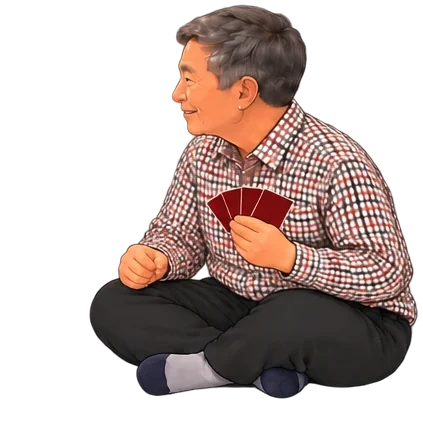
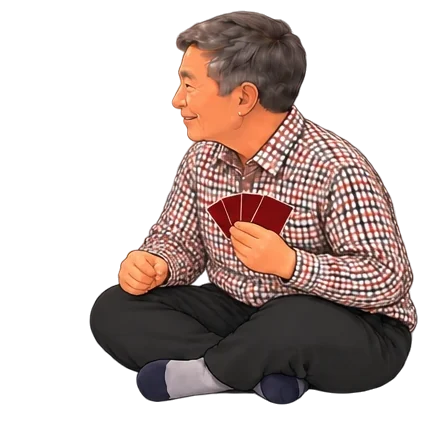
남이 점수를 가져가거나 대박일 때 아쉬워하는 8프레임 모션 추가
- 캐릭터별 아쉬움 모션 시트(sad_{seatId}) 추가, 슬라이스 스크립트에서 다리 폭 기준 크기 보정·정렬
- CharacterSprite 'sad' 포즈: 멍 → 손짓 → 볼 감싸고 한숨 → 체념 (한 번 재생)
- 남이 점수를 올리거나 쪽·따닥·싹쓸이 등 대박이 나면 다른 분들이 순차적으로 아쉬워함,
  피를 뺏긴 분은 항상, 판이 끝나면 진 분들도 아쉬워함

Claude-Session: https://claude.ai/code/session_01Gnj2nYNRJuK9oaCQFWawaU

diff --git a/src/components/CharacterSprite.tsx b/src/components/CharacterSprite.tsx
@@ -2,7 +2,7 @@ import { useEffect, useState } from 'react';
 import FRAMES from '../config/characterFrames.json';
 
 /** 캐릭터 모션 상태 */
-export type CharacterPose = 'idle' | 'play' | 'cheer' | 'observe';
+export type CharacterPose = 'idle' | 'play' | 'cheer' | 'observe' | 'sad';
 
 type FrameMeta = { width: number; height: number; anchorX: number; anchorY: number; bodyHeight: number };
 
@@ -16,7 +16,18 @@ export const playReleaseMs = (frameMs: number) => PLAY_SEQ.indexOf(6) * frameMs;
 export const playTotalMs = (frameMs: number) => PLAY_SEQ.length * frameMs;
 
 const CHEER_SEQ = ['cheer-1', 'cheer-2', 'cheer-3', 'cheer-2'];
-const ALL_FRAMES = [...Array.from({ length: 8 }, (_, i) => `play-${i + 1}`), 'cheer-1', 'cheer-2', 'cheer-3'];
+/** 아쉬움 8프레임: 1 멍 → 2~3 말하며 손짓 → 4~6 볼 감싸고 한숨 → 7 손짓 → 8 체념 */
+const SAD_SEQ = [1, 2, 3, 4, 5, 6, 5, 6, 7, 8];
+/** 아쉬움 모션 1프레임 시간 (배속 무관 — 표정을 읽을 수 있게) */
+export const SAD_FRAME_MS = 170;
+export const SAD_TOTAL_MS = SAD_SEQ.length * SAD_FRAME_MS;
+const ALL_FRAMES = [
+  ...Array.from({ length: 8 }, (_, i) => `play-${i + 1}`),
+  'cheer-1',
+  'cheer-2',
+  'cheer-3',
+  ...Array.from({ length: 8 }, (_, i) => `sad-${i + 1}`),
+];
 
 const frameUrl = (seatId: string, f: string) => `${import.meta.env.BASE_URL}assets/characters/${seatId}/${f}.webp`;
 
@@ -38,6 +49,7 @@ interface Props {
  *  - play   : 패를 골라 들어 올렸다가 '탁' 내려치는 8프레임 모션
  *  - cheer  : 득점 시 좋아하는 모션 루프
  *  - observe: 훈수 좌석 — 패 없이 앉아 있는 프레임
+ *  - sad    : 남이 점수를 가져가거나 대박이 났을 때 아쉬워하는 8프레임 (한 번 재생)
  */
 export function CharacterSprite({ seatId, pose, x, y, height, frameMs }: Props) {
   const meta = (FRAMES as Record<string, FrameMeta>)[seatId];
@@ -79,6 +91,10 @@ function useFrame(pose: CharacterPose, frameMs: number): string {
       const id = setInterval(() => setTick((t) => t + 1), 230);
       return () => clearInterval(id);
     }
+    if (pose === 'sad') {
+      const id = setInterval(() => setTick((t) => Math.min(t + 1, SAD_SEQ.length - 1)), SAD_FRAME_MS);
+      return () => clearInterval(id);
+    }
     if (pose === 'play') {
       const id = setInterval(() => setTick((t) => Math.min(t + 1, PLAY_SEQ.length - 1)), frameMs);
       return () => clearInterval(id);
@@ -103,6 +119,8 @@ function useFrame(pose: CharacterPose, frameMs: number): string {
       return `play-${PLAY_SEQ[Math.min(tick, PLAY_SEQ.length - 1)]}`;
     case 'cheer':
       return CHEER_SEQ[tick % CHEER_SEQ.length]!;
+    case 'sad':
+      return `sad-${SAD_SEQ[Math.min(tick, SAD_SEQ.length - 1)]}`;
     case 'observe':
       return 'cheer-3';
     case 'idle':

diff --git a/src/hooks/useGameController.ts b/src/hooks/useGameController.ts
@@ -1,5 +1,5 @@
 import { useCallback, useEffect, useRef, useState } from 'react';
-import { playReleaseMs, playTotalMs, type CharacterPose } from '../components/CharacterSprite';
+import { playReleaseMs, playTotalMs, SAD_TOTAL_MS, type CharacterPose } from '../components/CharacterSprite';
 import { line, type LineKey } from '../content/dialogue';
 import { visibleContext } from '../logic/aiContext';
 import { chooseTargetAi, decideGoAi, evaluateAiMove } from '../logic/aiEngine';
@@ -250,7 +250,17 @@ export function useGameController(settings: Settings) {
       else if (r.captured.length > 0 && Math.random() < CHANCE.capture) speak(actor.id, 'capture');
       else if (r.captured.length === 0 && Math.random() < CHANCE.miss) speak(actor.id, 'miss');
     }
+    const bigEvent = scored || r.specials.some((e) => e !== 'ppeok' && e !== 'bonus');
     if (scored || r.specials.some((e) => e !== 'ppeok')) setPose(r.seatId, 'cheer', T().cheer);
+
+    // 남이 점수를 가져가거나 대박(쪽·따닥·싹쓸이 등)이 나면 다른 분들은 아쉬워한다
+    // (피를 뺏긴 사람은 무조건, 나머지는 큰 일일 때)
+    if (bigEvent || r.stolen.length > 0) {
+      const robbed = new Set(r.stolen.map((x) => x.fromSeatId));
+      [...g.players.map((p) => p.seat), g.observer]
+        .filter((s) => !s.isHuman && s.id !== r.seatId && (bigEvent || robbed.has(s.id)))
+        .forEach((s, i) => later(250 + i * 180, () => setPose(s.id, 'sad', SAD_TOTAL_MS + 200)));
+    }
 
     // 내가 잘하면 칭찬, 헛방/뻑이면 놀림 (훈수석 또는 상대 중 한 명)
     if (actor.isHuman) {
@@ -286,6 +296,10 @@ export function useGameController(settings: Settings) {
     const winner = game.players.find((p) => p.seat.id === res.winnerId)!.seat;
     if (!winner.isHuman) speak(winner.id, 'win', {}, undefined, 600);
     setPose(winner.id, 'cheer', 2600);
+    // 진 분들은 아쉬워하는 모션
+    game.players
+      .filter((p) => p.seat.id !== res.winnerId && !p.seat.isHuman)
+      .forEach((p, i) => later(400 + i * 250, () => setPose(p.seat.id, 'sad', SAD_TOTAL_MS + 400)));
     game.players
       .filter((p) => p.seat.id !== res.winnerId && !p.seat.isHuman)
       .forEach((p, i) => speak(p.seat.id, 'lose', {}, undefined, 1500 + i * 900));

diff --git a/scripts/slice_characters.py b/scripts/slice_characters.py
@@ -5,9 +5,10 @@
   assets-src/motion_{seatId}.webp   화투 치는 모션 8프레임 (2행 × 4열, 행 우선)
       1 대기 → 2 패 고르기 → 3 들어 올리기 → 4 높이 들기 → 5 내려치기 → 6 바닥에 탁 → 7 돌아오기 → 8 대기
   assets-src/characters_cheer.webp  득점 기쁨 3프레임 (3행 × 3열) — 행: 외할머니 / 이모부님(가운데) / 장인어른(오른쪽)
+  assets-src/sad_{seatId}.webp      남이 점수 가져갈 때 아쉬워하는 8프레임 (2행 × 4열, 행 우선)
 
 출력:
-  public/assets/characters/{seatId}/{play-1..8,cheer-1..3}.webp
+  public/assets/characters/{seatId}/{play-1..8,cheer-1..3,sad-1..8}.webp
   src/config/characterFrames.json   캐릭터별 캔버스 크기와 기준점(대기 프레임의 다리 하단 중앙)
 
 정렬 방식:
@@ -123,9 +124,16 @@ def main():
         cheer = cheer_sheet[CHEER_ROW[seat] * 3 : CHEER_ROW[seat] * 3 + 3]
         k = leg_width(ref) / float(np.median([leg_width(f) for f in cheer]))
         cheer = [resize(f, k) for f in cheer]
-        print(f"{seat}: cheer scale {k:.3f}")
+        sad = extract(SRC / f"sad_{seat}.webp", 2, 4)
+        ks = leg_width(ref) / float(np.median([leg_width(f) for f in sad]))
+        sad = [resize(f, ks) for f in sad]
+        print(f"{seat}: cheer scale {k:.3f}, sad scale {ks:.3f}")
 
-        named = [(f"play-{i + 1}", f) for i, f in enumerate(play)] + [(f"cheer-{i + 1}", f) for i, f in enumerate(cheer)]
+        named = (
+            [(f"play-{i + 1}", f) for i, f in enumerate(play)]
+            + [(f"cheer-{i + 1}", f) for i, f in enumerate(cheer)]
+            + [(f"sad-{i + 1}", f) for i, f in enumerate(sad)]
+        )
         placed = [(name, f, *align_offset(ref, f)) for name, f in named]
 
         x0 = min(dx for _, _, dx, _ in placed) - PAD

diff --git a/README.md b/README.md
@@ -50,7 +50,7 @@ src/
     SettingsModal.tsx      우상단 ⚙ 설정
     HintPanel.tsx          도움 모드 상세 훈수 패널
     MoneyStack.tsx         가진 돈을 지폐 묶음(오만원·만원·오천원·천원)으로 표시
-    CharacterSprite.tsx    배경과 분리된 캐릭터 스프라이트 + 모션(idle / play 8프레임 '탁' / cheer / observe)
+    CharacterSprite.tsx    배경과 분리된 캐릭터 스프라이트 + 모션(idle / play 8프레임 '탁' / cheer / sad 8프레임 아쉬움 / observe)
     MyHand.tsx             장면 아래 내 손패 전용 패널 (탭=선택·같은 월 강조, 한 번 더 탭/‘내기’=내기)
     Card.tsx               카드 (이미지 → 실패 시 텍스트 카드 fallback)
 ```
@@ -60,8 +60,8 @@ src/
 | 용도 | 경로 |
 | --- | --- |
 | 배경 | `public/assets/bg_livingroom.webp` (1672×941, 16:9 — 거실+모포(앞쪽으로 넓힘), 인물 없음) |
-| 캐릭터 원본 시트 | `assets-src/motion_{seatId}.webp`(패 치기 8프레임, 2×4), `assets-src/characters_cheer.webp`(득점 기쁨 3프레임 — 행: 외할머니/이모부님/장인어른) |
-| 캐릭터 프레임 | `public/assets/characters/{seatId}/{play-1..8,cheer-1..3}.webp` ← `python3 scripts/slice_characters.py` (다리 영역 상호상관으로 프레임 정렬) |
+| 캐릭터 원본 시트 | `assets-src/motion_{seatId}.webp`(패 치기 8프레임, 2×4), `assets-src/characters_cheer.webp`(득점 기쁨 3프레임 — 행: 외할머니/이모부님/장인어른), `assets-src/sad_{seatId}.webp`(아쉬움 8프레임, 2×4) |
+| 캐릭터 프레임 | `public/assets/characters/{seatId}/{play-1..8,cheer-1..3,sad-1..8}.webp` ← `python3 scripts/slice_characters.py` (다리 영역 상호상관으로 프레임 정렬) |
 | 카드 앞면 | `public/assets/cards/{cardId}.webp` (예: `01-gwang.webp`, `03-tti.webp`, `11-pi-1.webp`) — 보너스패는 코드로 그림 |
 | 지폐 | `public/assets/money/{1000,5000,10000,50000}.webp` ← `assets-src/money_sheet.png` + `python3 scripts/slice_money.py` |
 | 카드 원본 시트 | `assets-src/hwatu_sprite.jpg` (8열×6행) → `python3 scripts/slice_cards.py` 로 48장 생성 |
